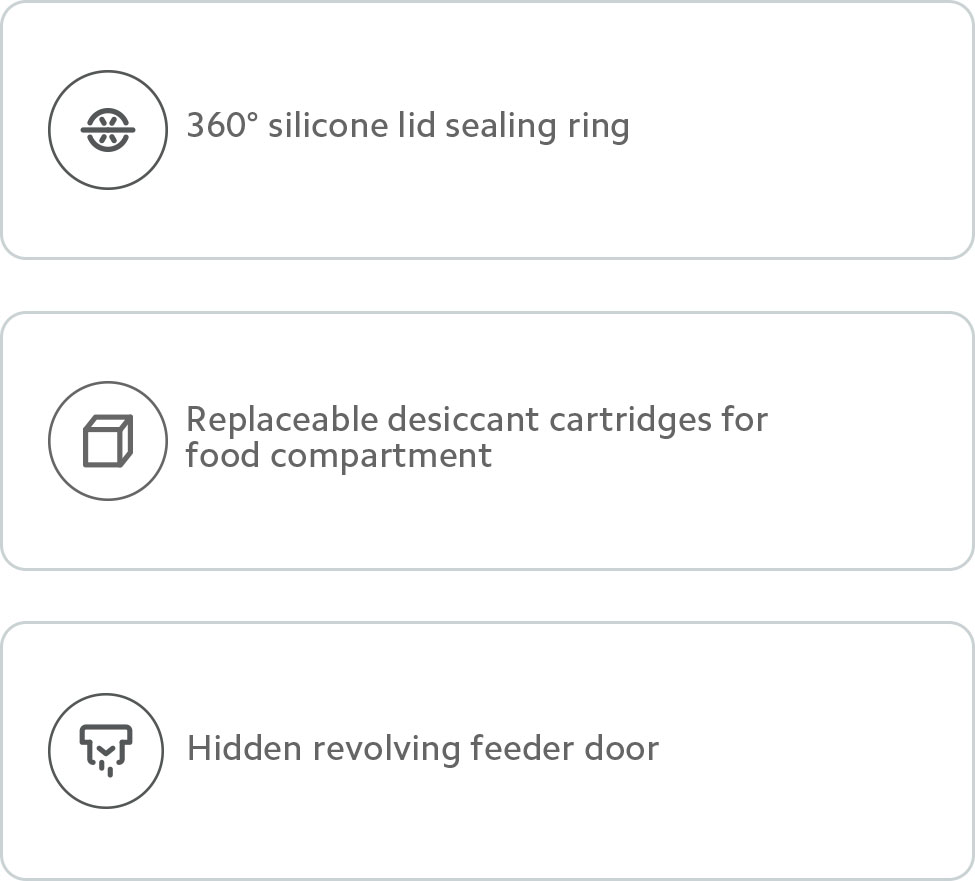
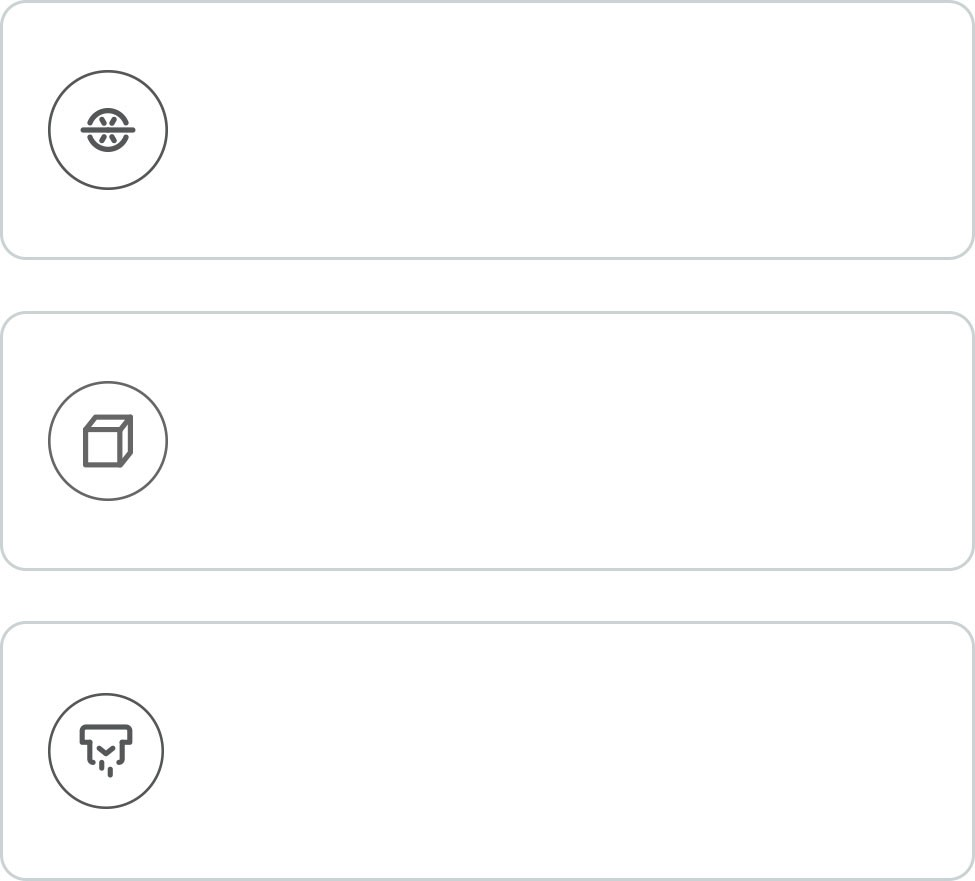
Adjusting code

Changed region(s): [[0.1846, 0.4597, 0.8, 0.5516], [0.1846, 0.8275, 0.6769, 0.8888], [0.1846, 0.1226, 0.6462, 0.1839]]

diff --git a/index.html b/index.html
@@ -60,19 +60,25 @@
                     
                 </div>
 
-                <!-- 
-                <div class="bg_01">
-                    <h2 class="sub-title_xiaomi-smart-pet-feeder-01 f-thin"> A kibble that has an excessively large or small diameter may cause a blockage. 
-                        Not suitable for freeze-dried food or special-shaped kibble.
-                    </h2> 
-                </div> 
-                -->
                 <div class="bg_01">
                     <h2 class="sub-title_xiaomi-smart-pet-feeder-01 f-medium"> Alimentação inteligente personalizada para pets </h2>  
                 </div>
 
                 <div class="bg_img-center">
-                    <img src="./assets/media/Overview_M1080_06.jpg" style="width: 20rem; margin: 1rem;">
+                    <div class="bg_img-center-01">
+                        <div class="grid_img-icon">
+                            <img src="./assets/media/Overview_M1080_06-01.png" style="width: 3rem; margin: 1rem;">
+                            <h2 class="sub-title_xiaomi-smart-pet-feeder-01-02 f-thin"> Conecte-se ao aplicativo Mi Home/Xiaomi Home </h2>
+                        </div>
+                        <div class="grid_img-icon">
+                            <img src="./assets/media/Overview_M1080_06-02.png" style="width: 3rem; margin: 1rem;">
+                            <h2 class="sub-title_xiaomi-smart-pet-feeder-01-02 f-thin"> Alimentação programada e correta </h2>
+                        </div>
+                        <div class="grid_img-icon">
+                            <img src="./assets/media/Overview_M1080_06-03.png" style="width: 3rem; margin: 1rem;">
+                            <h2 class="sub-title_xiaomi-smart-pet-feeder-01-02 f-thin"> Notificações através do aplicativo quando a ração estiver no fim </h2>
+                        </div>
+                    </div>
                 </div>
                 
                 <div class="bg_04">
@@ -101,7 +107,20 @@
                 </div>
 
                 <div class="bg_img-center">
-                    <img src="./assets/media/Overview_M1080_10.jpg" style="width: 20rem; margin: 1rem;">
+                    <div class="bg_img-center-01">
+                        <div class="grid_img-icon">
+                            <img src="./assets/media/Overview_M1080_10-01.png" style="width: 3rem; margin: 1rem;">
+                            <h2 class="sub-title_xiaomi-smart-pet-feeder-01-02 f-thin"> Vedação de silicone 360° </h2>
+                        </div>
+                        <div class="grid_img-icon">
+                            <img src="./assets/media/Overview_M1080_10-02.png" style="width: 3rem; margin: 1rem;">
+                            <h2 class="sub-title_xiaomi-smart-pet-feeder-01-02 f-thin"> Cartuchos dessecantes substituíveis para compartimento de alimentos </h2>
+                        </div>
+                        <div class="grid_img-icon">
+                            <img src="./assets/media/Overview_M1080_10-03.png" style="width: 3rem; margin: 1rem;">
+                            <h2 class="sub-title_xiaomi-smart-pet-feeder-01-02 f-thin"> Porta de alimentação giratória oculta </h2>
+                        </div>
+                    </div>
                 </div>
 
                 <div class="bg_07">
@@ -113,7 +132,7 @@
                         cartuchos dessecantes substituíveis embutidos no compartimento de alimentos </h2>
                     <p class="sub-title_xiaomi-smart-pet-feeder-05 f-thin"> Cartuchos dessecantes independentes, substituíveis e à prova de umidade que mantêm os alimentos secos e frescos. </p>
 
-                    <h2 class="sub-title_xiaomi-smart-pet-feeder-04 f-medium"> Fase 3: <br>
+                    <h2 class="sub-title_xiaomi-smart-pet-feeder-04 f-medium"> Estágio 3: <br>
                         porta giratória oculta que libera os alimentos e garante o frescor </h2>
                     <p class="sub-title_xiaomi-smart-pet-feeder-05 f-thin"> O design exclusivo de vedação esférica garante frescor; mecanismo de distribuição oculto evita danos 
                         causados por mordidas dos pets.

diff --git a/assets/css/style.css b/assets/css/style.css
@@ -52,7 +52,8 @@
     
     .sub-title_xiaomi-smart-pet-feeder-01 {font-size: 1rem; color: var(--title); line-height: 1.5rem; text-align: center; padding: 1rem;}
     .sub-title_xiaomi-smart-pet-feeder-01-01 {font-size: 1rem; color: var(--title); line-height: 1.5rem; text-align: center; padding: 0rem 1rem 0rem 1rem;}
-    .sub-title_xiaomi-smart-pet-feeder-02 {font-size: 1rem; color: var(--title); text-align: center; padding: 1rem;}
+    .sub-title_xiaomi-smart-pet-feeder-01-02 {font-size: 1rem; color: var(--title); line-height: 1.5rem; text-align: left; padding: 1rem;}
+    .sub-title_xiaomi-smart-pet-feeder-02 {font-size: 1rem; color: var(--title); text-align: center; padding: 0.5rem;}
     .sub-title_xiaomi-smart-pet-feeder-03 {font-size: 1rem; color: var(--title-white); line-height: 1.5rem; text-align: center; padding: 1rem;}
    
     .sub-title_xiaomi-smart-pet-feeder-04 {font-size: 1rem; color: var(--title-white); text-align: left; margin: 2rem 4rem 1rem 3rem;}
@@ -92,6 +93,21 @@
         justify-items: center;
         max-width: 7rem;
     }
+
+    .grid_img-icon {
+        border-width: 0.2rem;
+        border-color: lightgray;
+        border-style: solid;
+        border-radius: 1rem;
+        display: flex;
+        align-items: center;
+        margin: 1rem;
+    }
+
+    .bg_img-center-01 {
+        margin: 1rem;
+    }
+
 
     /*======================================================= LAYOUT =======================================================*/
 
